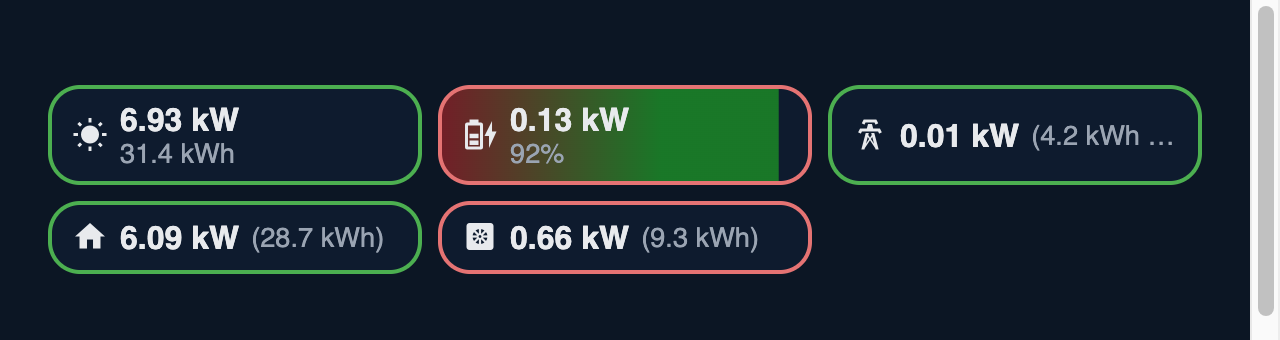
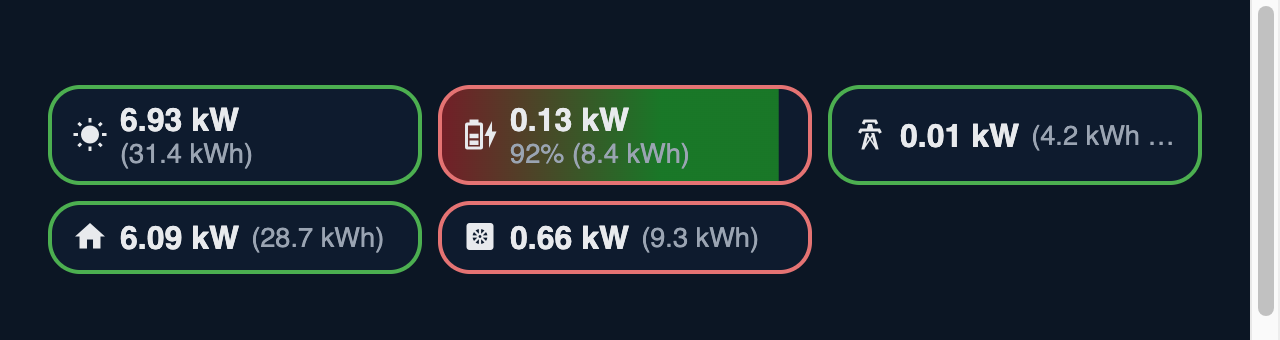
daily_line: SoC plain, daily and price in brackets on the second line

Changed region(s): [[0.0938, 0.4118, 0.2188, 0.5], [0.4375, 0.4118, 0.5312, 0.5]]

diff --git a/preview.html b/preview.html
@@ -63,7 +63,7 @@
   const st = (state, unit) => ({ state: String(state), attributes: { unit_of_measurement: unit } });
   const hass = { states: {
     "sensor.solar": st(4930, "W"), "sensor.solar_day": st(21.4, "kWh"), "sensor.solar2": st(2.0, "kW"), "sensor.solar2_day": st(10, "kWh"),
-    "sensor.bat": st(130, "W"), "sensor.soc": st(92, "%"),
+    "sensor.bat": st(130, "W"), "sensor.soc": st(92, "%"), "sensor.bat_day": st(8.4, "kWh"),
     "sensor.grid": st(-0.01, "kW"), "sensor.grid_day": st(4.2), "sensor.price": st(0.28, "€/kWh"),
     "sensor.house": st(6.09, "kW"), "sensor.house_day": st(28.7, "kWh"),
     "sensor.heat": st(0.66, "kW"), "sensor.heat_day": st(9.3, "kWh"),
@@ -75,7 +75,7 @@
   const config = {
     entities: [
       { entity: "sensor.solar", type: "solar", entity_2: "sensor.solar2", daily_entity: "sensor.solar_day", daily_entity_2: "sensor.solar2_day", daily_line: true },
-      { entity: "sensor.bat", type: "battery", soc_entity: "sensor.soc", soc_fill: true, daily_line: true },
+      { entity: "sensor.bat", type: "battery", soc_entity: "sensor.soc", soc_fill: true, daily_line: true, daily_entity: "sensor.bat_day" },
       { entity: "sensor.grid", type: "grid", price_entity: "sensor.price", daily_entity: "sensor.grid_day" },
       { entity: "sensor.house", type: "home", name: "House", daily_entity: "sensor.house_day" },
       { entity: "sensor.heat", type: "heatpump", daily_entity: "sensor.heat_day" },

diff --git a/slim-energy-card.js b/slim-energy-card.js
@@ -100,9 +100,10 @@ class SlimEnergyCard extends HTMLElement {
       color = borderColor(c, kw);
     }
     const parts = [];
+    let socText = "";
     if (c.soc_entity) {
       const [soc] = this._num(c.soc_entity);
-      if (!isNaN(soc)) parts.push(`${Math.round(soc)}%`);
+      if (!isNaN(soc)) socText = `${Math.round(soc)}%`;
     }
     const [d, du] = this._sum([c.daily_entity, c.daily_entity_2], true);
     if (!isNaN(d)) parts.push(`${d.toFixed(1)} ${du || "kWh"}`);
@@ -111,9 +112,11 @@ class SlimEnergyCard extends HTMLElement {
       const [p, ps] = this._num(price);
       if (!isNaN(p)) parts.push(`${p.toFixed(2)} ${ps.attributes.unit_of_measurement || ""}`.trim());
     }
-    const text = parts.join(" · ");
-    const extra = text && !c.daily_line ? `(${text})` : "";
-    const line2 = text && c.daily_line ? `<span class="x">${text}</span>` : ""; // daily_line: all bracket parts on a second line
+    // daily_line: second line, SoC plain, daily/price in brackets; else everything in one bracket
+    const rest = parts.join(" · ");
+    const extra = c.daily_line ? "" : [socText, rest].filter(Boolean).join(" · ").replace(/^(.+)$/, "($1)");
+    const l2 = [socText, rest && `(${rest})`].filter(Boolean).join(" ");
+    const line2 = c.daily_line && l2 ? `<span class="x">${l2}</span>` : "";
     const icon = c.icon || typeIcon(T);
     let style = "";
     if (c.soc_fill && c.soc_entity) {

diff --git a/AGENTS.md b/AGENTS.md
@@ -16,7 +16,7 @@ HACS Lovelace card (`custom:slim-energy-card`). Goal: very simple, slim energy o
 - Bracket text, parts joined with ` · `, in order: battery SoC (`soc_entity`, `52%`), daily energy (`daily_entity`, kWh, Wh converted, 1 decimal), grid price (only `type: grid`, from its `price_entity`, 2 decimals + its unit).
   - Solar: `daily_entity` = daily production. Grid: `daily_entity` = daily use, e.g. `(4.2 kWh · 0.28 €/kWh)`.
 - Daily value without a unit (e.g. a meter on a unit-less source) is shown as kWh.
-- `daily_line: true`: all bracket parts (SoC, daily, price, joined with ` · `) go on a second line, without brackets, instead of next to the value; saves width. Key name kept from when it only moved the daily value.
+- `daily_line: true`: bracket parts go on a second line instead of next to the value: SoC plain, daily/price in brackets (`52% (6.1 kWh)`); saves width. Key name kept from when it only moved the daily value.
 - Battery `soc_fill: true` (needs `soc_entity`): pill background filled left to right to SoC%, gradient red to green, hue = min(120, SoC*2), so full green from 60% SoC. Off by default.
 - Solar only: `entity_2` and `daily_entity_2` (second inverter) are summed with `entity` / `daily_entity` (`_sum`, W to kW, Wh to kWh; unavailable ones skipped). Tap opens more-info of `entity`.
 - Icon per entity: any `mdi:...` (via `ha-icon`) or emoji. Defaults per type are standard MDI icons (`TYPES`): sun `mdi:white-balance-sunny`, battery `mdi:battery-charging-medium`, grid `mdi:transmission-tower`, home `mdi:home`, heat pump `bha:heat-pump` (from hulkhaugen/hass-bha-icons, used only when `window.customIconsets.bha` exists, else `mdi:heat-pump`; `typeIcon`), EV `mdi:car-electric`, other `mdi:flash`. Chosen to match what the owner had configured by hand; no coloured/embedded icons (rejected). Editor icon picker shows the type default as placeholder.

diff --git a/README.md b/README.md
@@ -68,7 +68,7 @@ The border shows the direction of the energy, not whether it is "good":
 | `soc_entity` | | Battery only: state of charge, shown as `(52%)` |
 | `soc_fill` | `false` | Battery only: fill the pill from the left up to the state of charge, with a red to green gradient |
 | `daily_entity_2` | | Solar only: second daily energy sensor, added to `daily_entity` |
-| `daily_line` | `false` | Show the bracket values (SoC, daily energy, price) on a second line in the pill instead of in brackets |
+| `daily_line` | `false` | Show SoC, daily energy and price on a second line in the pill (SoC plain, daily and price in brackets) instead of next to the value |
 | `price_entity` | | Grid only: price, shown in brackets |
 | `daily_entity` | | Daily energy sensor in kWh or Wh, shown in brackets |
 | `positive_color` | per type | Border colour when the value is above 0: `green` or `red`. Solar, home, other: green. Battery, grid, heat pump, EV: red. The opposite colour is used below 0. |
